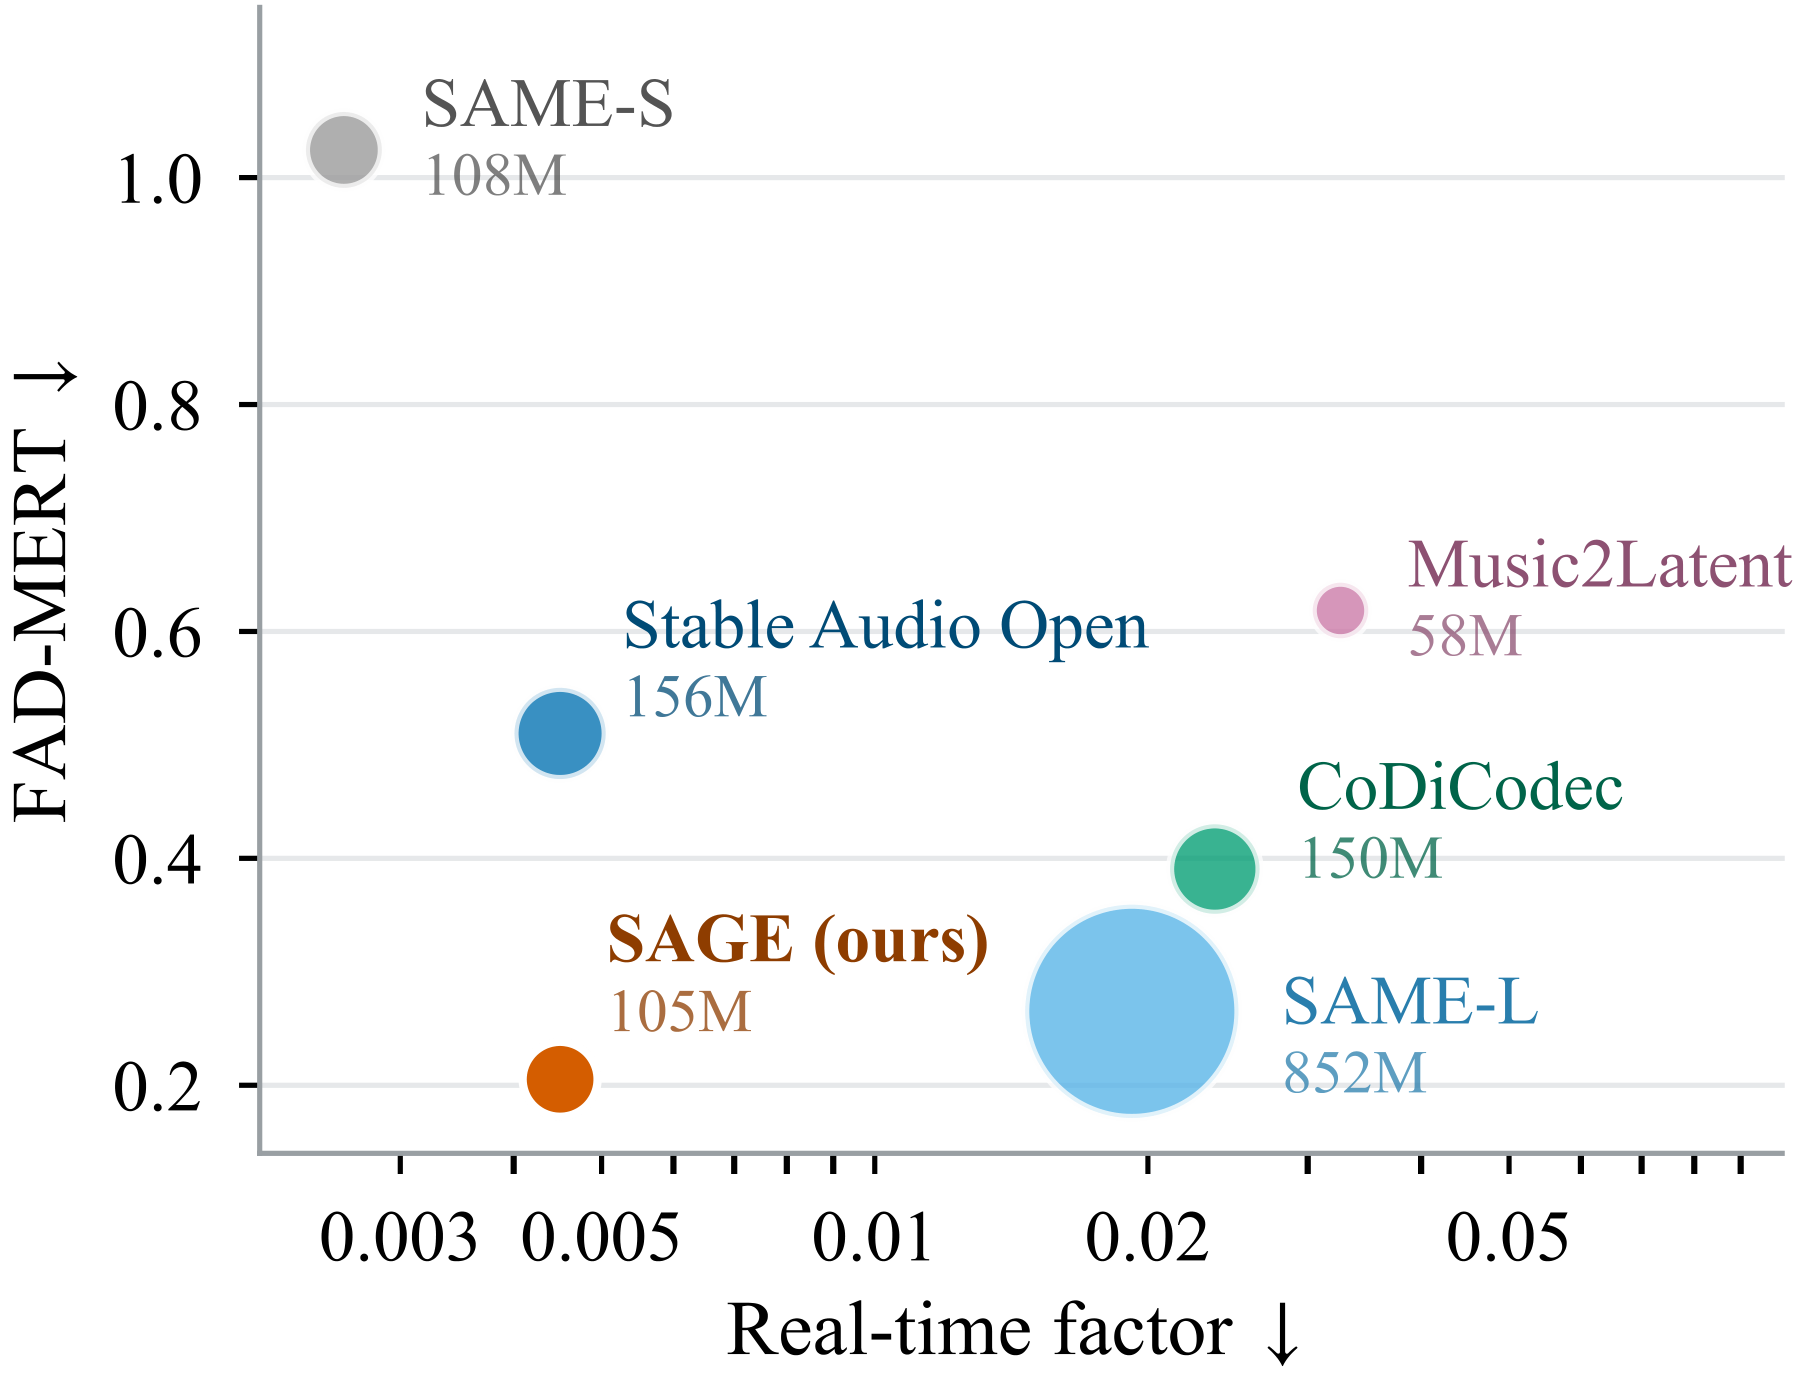
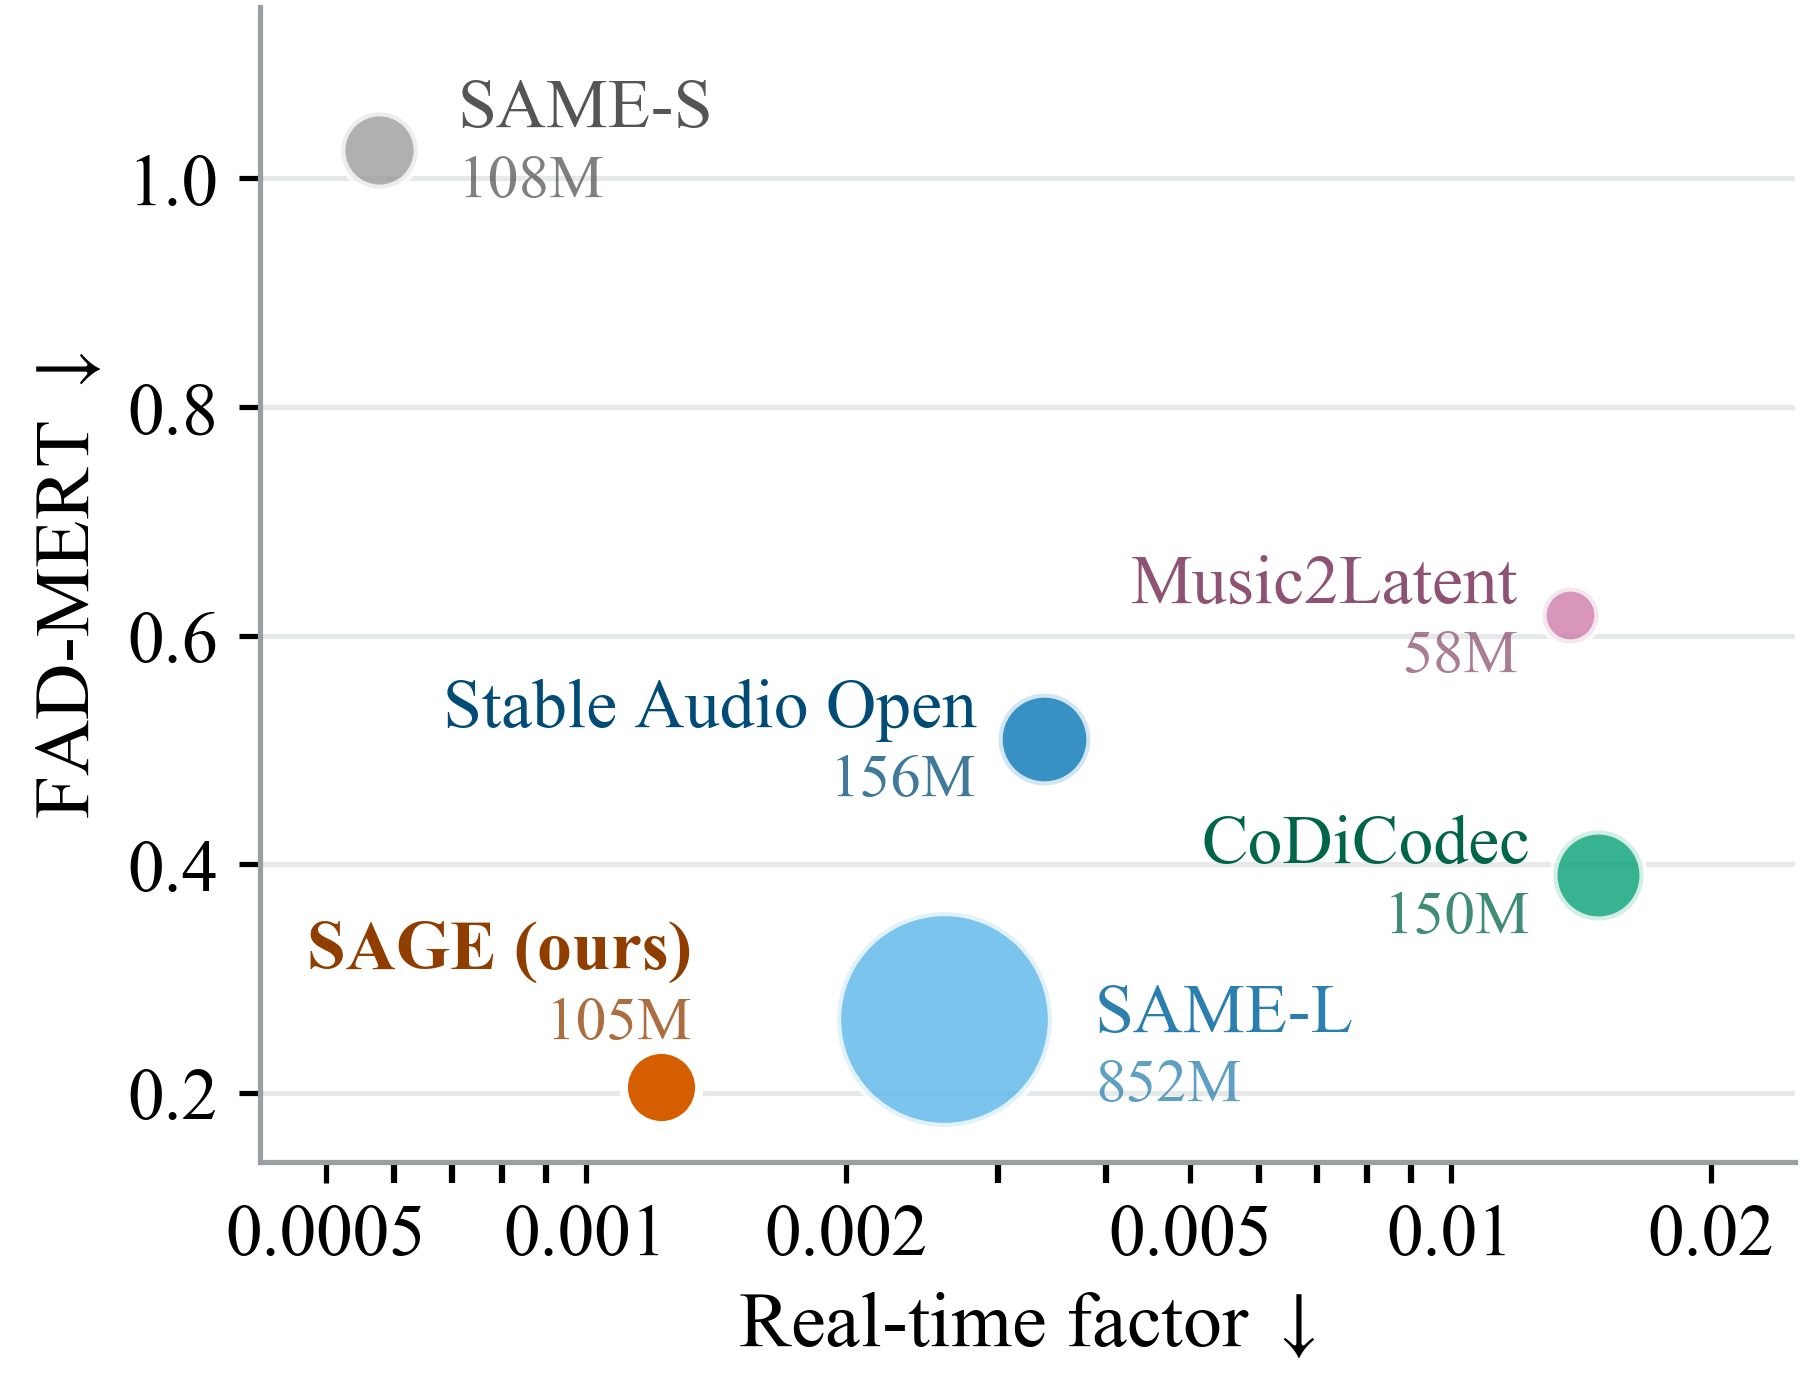
Update README and docs to the paper v2 timings
The efficiency figure (light and dark) and the README speed column use the real-time factors of paper
v2 (Table 1: 10 s MoisesDB clip, one RTX PRO 6000 Blackwell, TF32, torch.compile). The README documents
the precision option and the CUDA 12.8 wheels needed on Blackwell GPUs. Table references follow the v2
numbering: full MAEB table 9 -> 10, ablations 10, 11 -> 11, 12, timings in Tables 1, 8 and 9.

diff --git a/evaluation/tables.py b/evaluation/tables.py
@@ -9,7 +9,7 @@
 #   --recon LABEL=DIR   one evaluation set; DIR/<model>/metrics/ as written by
 #                       evaluation.reconstruction → Table 2, plus the stereo-image
 #                       metrics when ms_metrics.csv exists (compute_ms_metrics=true)
-#   --maeb DIR          the MAEB output of one encoder (evaluation.maeb) → Table 9
+#   --maeb DIR          the MAEB output of one encoder (evaluation.maeb) → Table 10
 #                       and the block averages of Table 4; a directory named
 #                       "clap" is the oracle row, shown but never bolded
 # Per-file metrics are averaged over files; FADs are corpus-level scalars.
@@ -152,7 +152,7 @@ def main(argv=None) -> None:
                                    for ts in MAEB_BLOCKS.values()] for m, s in scores.items()},
                               index=list(MAEB_BLOCKS))
         oracle = ("clap",)
-        print(f"\n### Semantic probing, nineteen tasks (Table 9)\n\n"
+        print(f"\n### Semantic probing, nineteen tasks (Table 10)\n\n"
               f"{_markdown(per_task.T, {t: True for t in tasks}, exclude=oracle)}")
         print(f"\n### Average per block (Table 4)\n\n{_markdown(blocks.T, {b: True for b in MAEB_BLOCKS}, exclude=oracle)}")
 

diff --git a/evaluation/maeb/tasks.py b/evaluation/maeb/tasks.py
@@ -39,7 +39,7 @@ from .moisesdb_tasks import MOISESDB_SUITE  # noqa: E402
 # The complete set of task names these CLIs may run.
 ALLOWED_TASKS = FMA_SUITE + MAEB_ORIGINAL_MUSIC + MOISESDB_SUITE
 
-# Named suites (configs/maeb.yaml `suite`); "paper" is the 19 tasks of Table 9.
+# Named suites (configs/maeb.yaml `suite`); "paper" is the 19 tasks of Table 10.
 SUITES = {
     "paper": FMA_SUITE + MOISESDB_SUITE + MAEB_ORIGINAL_MUSIC,
     "fma": FMA_SUITE,

diff --git a/evaluation/maeb/__main__.py b/evaluation/maeb/__main__.py
@@ -1,6 +1,6 @@
 #!/usr/bin/env python3
 # =============================================================================
-# Semantic probing of a latent on the MAEB tasks (paper Section 4, Tables 4 and 9):
+# Semantic probing of a latent on the MAEB tasks (paper Section 4, Tables 4 and 10):
 #
 #   python -m evaluation.maeb encoder=sage                  # the paper's 19 tasks
 #   python -m evaluation.maeb encoder=same-s                # a baseline

diff --git a/README.md b/README.md
@@ -18,7 +18,7 @@ Michele Mancusi<sup>1,2</sup><br>
   <picture>
     <source media="(prefers-color-scheme: dark)" srcset="https://raw.githubusercontent.com/francescobrigante/SAGE/main/docs/assets/efficiency_dark.png">
     <source media="(prefers-color-scheme: light)" srcset="https://raw.githubusercontent.com/francescobrigante/SAGE/main/docs/assets/efficiency.png">
-    <img src="https://raw.githubusercontent.com/francescobrigante/SAGE/main/docs/assets/efficiency.png" width="600" alt="FAD-MERT on the MoisesDB mixtures against real-time factor: SAGE has the lowest FAD-MERT at the real-time factor of Stable Audio Open">
+    <img src="https://raw.githubusercontent.com/francescobrigante/SAGE/main/docs/assets/efficiency.png" width="600" alt="FAD-MERT on the MoisesDB mixtures against real-time factor: SAGE has the lowest FAD-MERT and is outrun only by SAME-S">
   </picture>
   <br><em>Distributional fidelity against inference cost on the MoisesDB mixtures; marker area is the parameter count.</em>
 </p>
@@ -32,9 +32,9 @@ Its Swin Transformer V2 encoder and decoder operate on the STFT. During training
 semantic distillation from LAION-CLAP, a pretrained audio-text model, shapes the
 latent representation.
 
-- **Fast:** it runs at the inference cost of Stable Audio Open.
-- **High fidelity:** its listening-test score matches SAME-L, an autoencoder 8× larger and 4×
-  slower, and it surpasses both on objective perceptual and distributional reconstruction metrics.
+- **Fast:** it runs about 3× faster than Stable Audio Open.
+- **High fidelity:** its listening-test score matches SAME-L, an autoencoder 8× larger and over
+  2× slower, and it surpasses both on objective perceptual and distributional reconstruction metrics.
 - **Semantic latent:** it sets the state of the art on all nineteen probing tasks of latent
   semantics, in domain and out of domain.
 - **Open data:** it is trained solely on publicly available music.
@@ -94,6 +94,11 @@ At inference the window attention runs through PyTorch's fused `scaled_dot_produ
 the same formula faster. `SAGE.from_checkpoint(..., sdpa=False)` (or `--no-sdpa` in `encode_decode.py`) runs the
 original attention instead.
 
+Encoding and decoding run in TF32 by default, the setting of the paper's timings, which leaves the reconstruction
+unchanged (paper, Appendix C). `precision="fp32"` (`--precision fp32` in `encode_decode.py`) turns TF32 off;
+`precision="bf16"` runs the encoder and decoder under bfloat16 autocast, which is faster only on long inputs
+(30 s clips: 25.5 vs 30.6 ms, compiled) and costs a little fidelity.
+
 Inputs of any length work. Above 5 minutes, `encode`, `decode` and `reconstruct` run in 5-minute chunks
 that each see 6 s of the neighbouring audio, which is then discarded. The output equals a single pass up to
 floating-point rounding, for about 3 % more time, and the GPU memory stays below 14 GB however long the track
@@ -123,14 +128,15 @@ cannot be used to resume training.
 
 | Model | Params | Speed (RTF ↓) | Listening test (MUSHRA ↑) | Probing: FMA ↑ | Probing: MoisesDB ↑ | Probing: MAEB music ↑ |
 |---|---|---|---|---|---|---|
-| **SAGE** | **105M** | **0.0045** | **81.6 ± 2.7** | **0.563** | **0.544** | **0.622** |
-| SAME-L | 852M | 0.0192 | **81.8 ± 2.6** | 0.470 | 0.493 | 0.473 |
-| Stable Audio Open | 156M | **0.0045** | 64.6 ± 3.7 | 0.490 | 0.469 | 0.481 |
-| CoDiCodec | 150M | 0.0237 | 66.4 ± 3.5 | 0.474 | 0.456 | 0.471 |
+| **SAGE** | **105M** | **0.0012** | **81.6 ± 2.7** | **0.563** | **0.544** | **0.622** |
+| SAME-L | 852M | 0.0026 | **81.8 ± 2.6** | 0.470 | 0.493 | 0.473 |
+| Stable Audio Open | 156M | 0.0034 | 64.6 ± 3.7 | 0.490 | 0.469 | 0.481 |
+| CoDiCodec | 150M | 0.0148 | 66.4 ± 3.5 | 0.474 | 0.456 | 0.471 |
 
 How to read the table:
 
-- **RTF** (real-time factor): processing time divided by audio duration. Lower is faster.
+- **RTF** (real-time factor): time to encode and decode a 10 s clip divided by 10 s, on one NVIDIA
+  RTX PRO 6000 Blackwell GPU in TF32, compiled (paper Table 1 and Appendix C). Lower is faster.
 - **MUSHRA**: a listening test in which 21 raters (after filtering) scored reconstructions
   from 0 to 100 against the original (paper Table 3). SAGE and SAME-L are statistically
   indistinguishable.
@@ -154,6 +160,10 @@ command that reproduces each of them.
 | Everything, including the paper's baselines | `uv sync --all-extras` |
 
 PyTorch 2.7.1 is installed with CUDA 12.6 wheels on Linux and the default wheels elsewhere.
+Blackwell GPUs (RTX 50 series, RTX PRO 6000, B200) need the CUDA 12.8 wheels. After `uv sync`, run
+`uv pip install --reinstall torch==2.7.1 torchaudio==2.7.1 --index-url https://download.pytorch.org/whl/cu128`,
+then use the environment with `source .venv/bin/activate` or `uv run --no-sync`: a plain `uv run` restores
+the locked CUDA 12.6 wheels.
 Run commands with `uv run`, or activate the environment once with `source .venv/bin/activate`.
 `pip install .` (or `pip install ".[train,eval]"`) also works, without the lock file.
 
@@ -171,7 +181,7 @@ commands for both phases, GPU sizing, resuming and SLURM.
 ```bash
 python -m evaluation.build_references dataset=musiccaps            # once per 10 s clip set
 python -m evaluation.reconstruction dataset=fma model=sage          # reconstruction metrics (Table 2)
-python -m evaluation.maeb encoder=sage                              # the 19 probing tasks (Tables 4, 9)
+python -m evaluation.maeb encoder=sage                              # the 19 probing tasks (Tables 4, 10)
 python -m evaluation.tables --recon "FMA test=results/recon_fma" --maeb results/maeb/SAGE_FTe992
 ```
 

diff --git a/docs/paper_runs.md b/docs/paper_runs.md
@@ -83,7 +83,7 @@ git clone https://github.com/Eps-Acoustic-Revolution-Lab/EAR_VAE2 models/EAR_VAE
 It follows the authors' `inference.py` (posterior mean, chunked encoding and decoding) without its
 output clipping and -14 LUFS normalisation, and runs at 44.1 kHz with resampling to 48 kHz inside.
 
-## Semantic probing (Tables 4 and 9)
+## Semantic probing (Tables 4 and 10)
 
 ```bash
 python -m evaluation.maeb encoder=sage        # the 19 tasks: FMA (6) + MoisesDB (7) + upstream MAEB music (6)
@@ -101,6 +101,6 @@ python -m evaluation.tables --recon "FMA test=results/recon_fma" --recon "Moises
     --maeb results/maeb/SAGE_FTe992 --maeb results/maeb/same-s --maeb results/maeb/clap
 ```
 
-Not reproduced by this repository: the inference timings of Tables 1 and 8, the MUSHRA
+Not reproduced by this repository: the inference timings of Tables 1, 8 and 9, the MUSHRA
 test of Table 3, and the ablations and sweeps of Tables 5, 7 (phase-1 checkpoints with and
-without L_SD), 10 and 11.
+without L_SD), 11 and 12.
